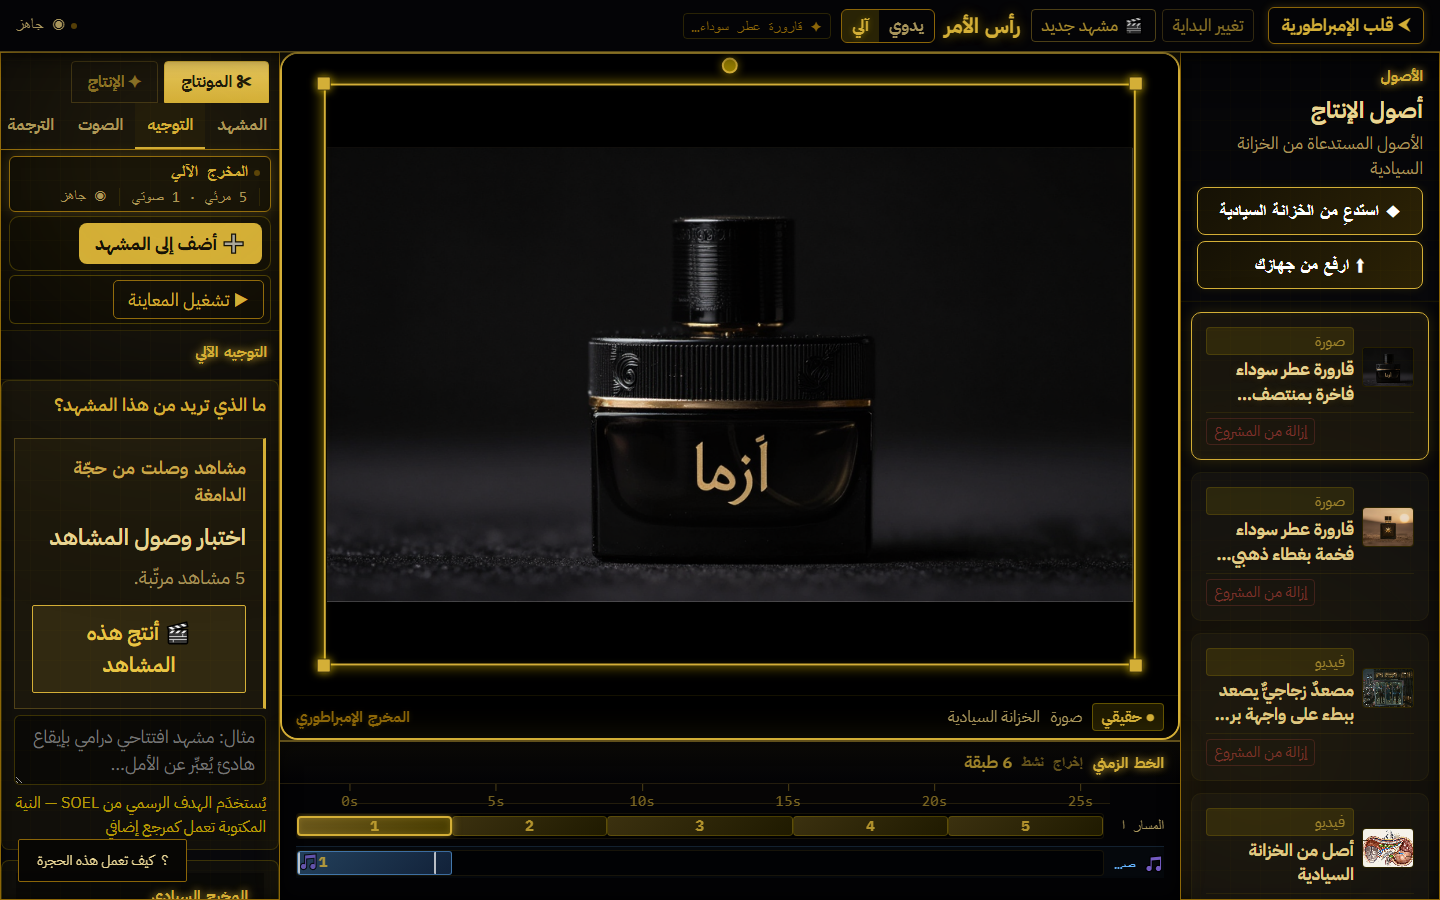
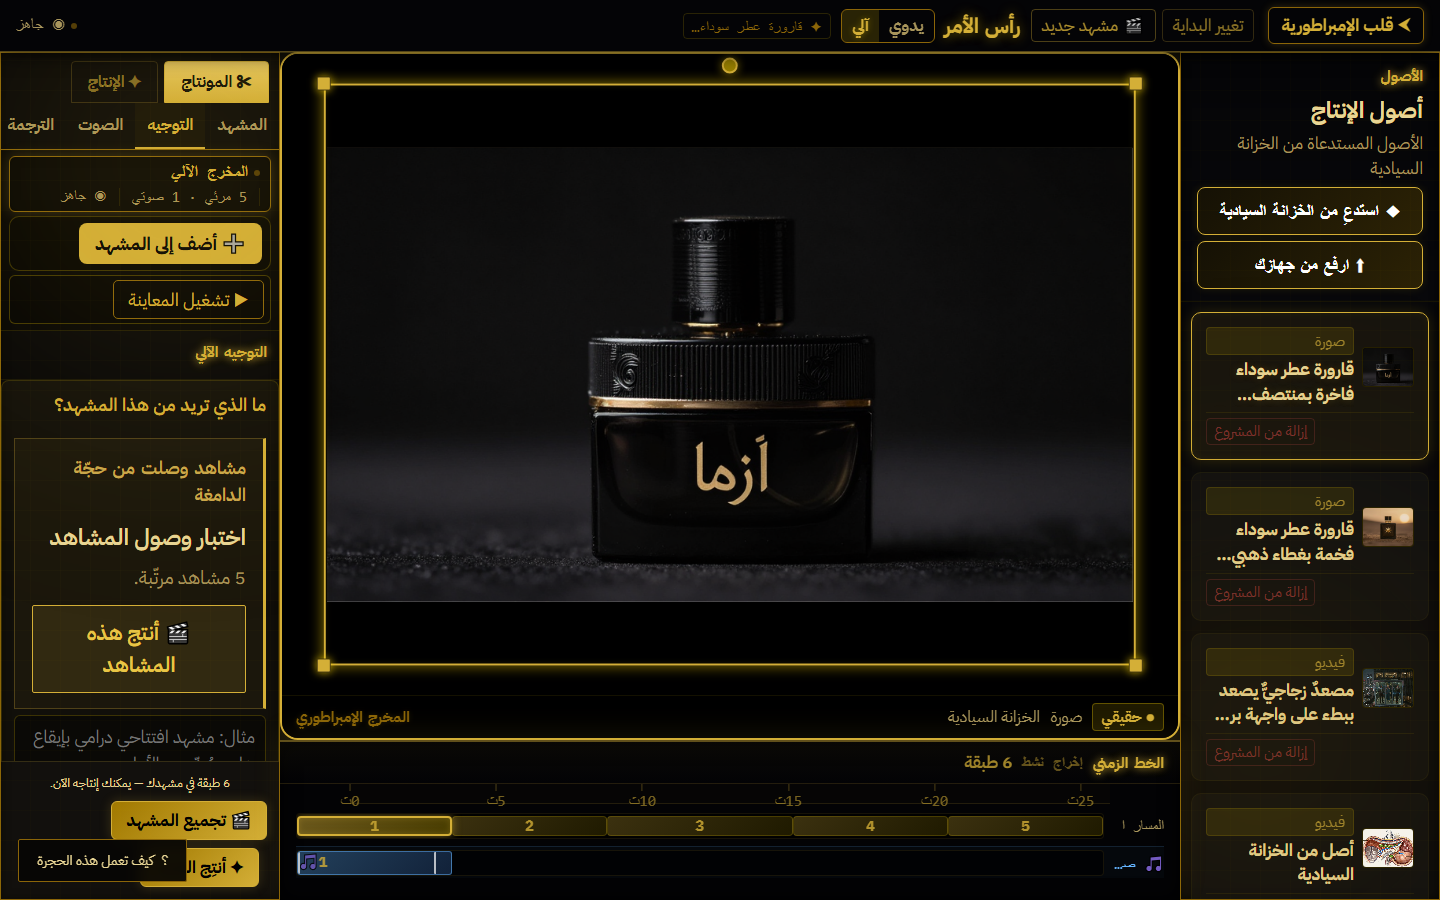
A control present, visible, and unpressable — one layer further in
MEASURED after the rails began scrolling, which is the only reason it could be
measured at all: «؟ كيف تعمل هذه الحجرة» is `position: fixed` at the bottom of
the chamber with z-index 900, and in RTL it rests over the rail that now ends
with the production act.

    1440×900 (100%)   pressable
    1152×720 (125%)   covered by .demo-open-btn
     960×600 (150%)   covered by .demo-open-btn

So the button the Founder said did not exist would have existed, been visible,
and refused the hand — his «لا يوجد زرّ» all over again, one layer further in.
Both rails now end with a gutter the size of that floating button plus its
inset, so whatever ends a rail can be scrolled clear of it.

The reproduction scripts are kept: they are how the six notes were proven
before repair and how they were proven closed after.

Changed region(s): [[0.0, 0.84, 0.1875, 1.0], [0.4375, 0.8711, 0.4688, 0.9022]]

diff --git a/app/ras-amr/ras-amr.css b/app/ras-amr/ras-amr.css
@@ -289,6 +289,27 @@ body:has(.ras-amr-viewport) {
    own `overflow-y` then never has anything to scroll.
    ═══════════════════════════════════════════════════════════════ */
 
+/* ─── AND A RAIL'S LAST CONTROL MUST CLEAR WHAT FLOATS OVER IT ──────────
+   MEASURED after the rails began scrolling, which is the only reason it
+   could be measured at all: «؟ كيف تعمل هذه الحجرة» is `position: fixed`
+   at the bottom of the chamber with z-index 900, and in RTL it rests over
+   this rail. The produce act, newly placed at the rail's end, landed
+   underneath it:
+
+       1440×900 (100%)   pressable
+       1152×720 (125%)   covered by .demo-open-btn
+        960×600 (150%)   covered by .demo-open-btn
+
+   A control that is present, visible and unpressable is the Founder's
+   «لا يوجد زرّ» all over again, one layer further in. The gutter is the
+   floating button's own height plus its inset, so whatever ends a rail can
+   always be scrolled clear of it. */
+.ras-panel-left,
+.ras-panel-right {
+  padding-block-end: 76px;
+  scroll-padding-block-end: 76px;
+}
+
 /* ── Command Rail (left) ─────────────────────── */
 .ras-panel-left {
   flex: 0 0 220px;

diff --git a/src/chamber-truth/__tests__/the-room-a-hand-can-reach.test.ts b/src/chamber-truth/__tests__/the-room-a-hand-can-reach.test.ts
@@ -85,6 +85,17 @@ describe('1 · both rails can be scrolled, at any zoom', () => {
     expect(block(code, sel)).toContain('min-height: 0');
   });
 
+  it('a rail ends clear of what floats over it', () => {
+    // MEASURED only once the rails scrolled, which is the only reason it
+    // could be measured: «؟ كيف تعمل هذه الحجرة» is fixed at the chamber's
+    // bottom with z-index 900, and the produce act newly placed at the rail's
+    // end landed underneath it at 125% and 150% — present, visible, and
+    // unpressable, which is «لا يوجد زرّ» one layer further in.
+    for (const sel of ['.ras-panel-left', '.ras-panel-right']) {
+      expect(block(code, sel)).toContain('padding-block-end');
+    }
+  });
+
   it('the chamber has a composition for a SHORT viewport, not only a narrow one', () => {
     // Every breakpoint the room had was a width. Zoom takes height too.
     expect(code).toMatch(/@media \(max-height: \d+px\)/);
